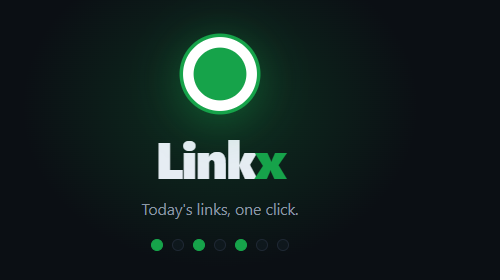
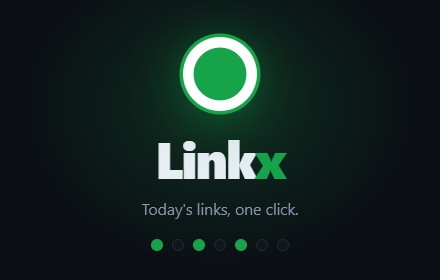
fix: render small promo tile at exact 440x280
Chrome clamps window width to ~500px, so the viewport screenshot came out
500x280. Capture the tile element directly (added aria-label) to get an
exact 440x280, 24-bit, no-alpha PNG the Web Store accepts.

diff --git a/promo/small.html b/promo/small.html
@@ -25,7 +25,7 @@
 </style>
 </head>
 <body>
-  <div class="stage">
+  <div class="stage" role="img" aria-label="Linkx — today's links, one click">
     <svg class="mark" viewBox="0 0 100 100" width="88" height="88" aria-hidden="true">
       <circle cx="50" cy="50" r="46" fill="#16a34a"/>
       <circle cx="50" cy="50" r="42" fill="#ffffff"/>
